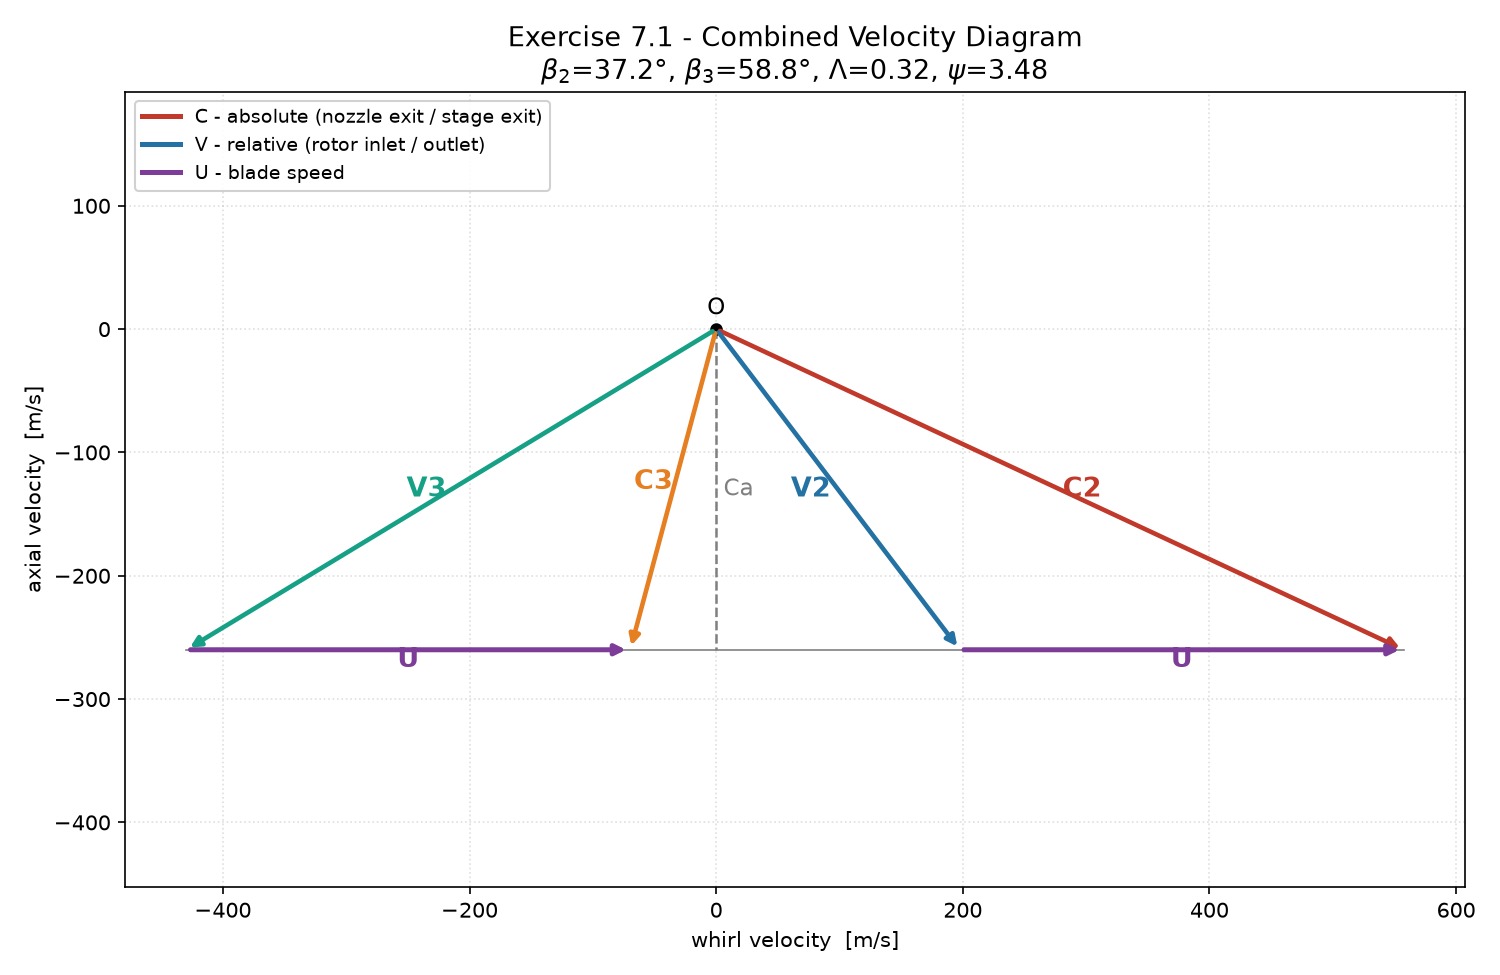
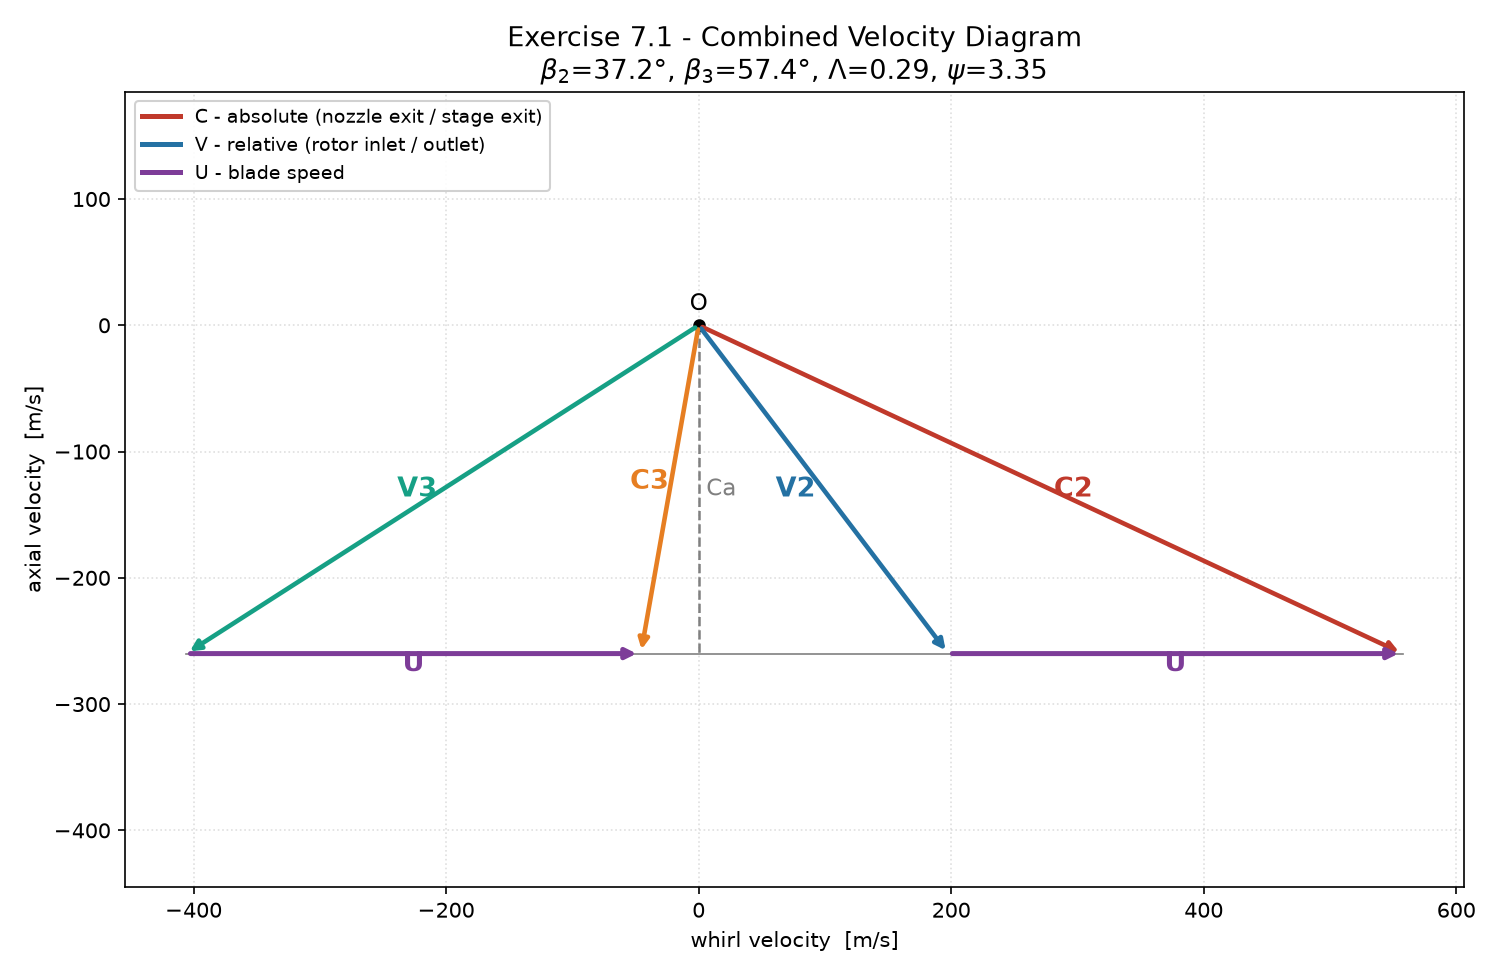
PR calculation

diff --git a/7_1.py b/7_1.py
@@ -27,6 +27,16 @@ alpha3 = radians(10.0)   # stage exit swirl angle         [deg]
 
 cp     = 1148.0          # specific heat, combustion gas  [J/kg.K]
 gamma  = 1.333           # ratio of specific heats        [-]
+R      = 287.0           # gas constant                   [J/kg.K]
+
+# Loss coefficients (temperature-loss definition, e.g. lambda_N = (T2 - T2')/(C2^2/2cp))
+lambda_N = 0.05          # nozzle loss coefficient        [-]
+lambda_R = 0.05          # rotor  loss coefficient        [-]  <-- set to your value
+# Alternatively, if you prefer to impose a stage total-to-total efficiency instead
+# of a rotor loss, set eta_s below to a number (e.g. 0.90); leave as None to use lambda_R.
+eta_s    = None          # stage total-to-total efficiency [-] or None
+
+n = gamma / (gamma - 1.0)   # isentropic exponent p/T grouping
 
 # --------------------------------------------------------------------------
 # 1) ROTOR-BLADE GAS ANGLES
@@ -73,6 +83,73 @@ V3  = Ca / cos(beta3)
 C3  = Ca / cos(alpha3)
 
 # --------------------------------------------------------------------------
+# 5) NOZZLE THROAT AREA  (using the nozzle loss coefficient lambda_N)
+#    T02 = T01 (no work in the nozzle).  The isentropic static temperature
+#    T2' fixes the static pressure through the nozzle loss:
+#        T2  = T02 - C2^2 / (2 cp)
+#        T2' = T2  - lambda_N * C2^2 / (2 cp)
+#        p01 / p2 = (T01 / T2')^(gamma/(gamma-1))
+#
+#    A convergent nozzle chokes when p2 falls to (or below) the critical
+#    pressure p_c.  If choked, the throat sits at critical (M = 1) conditions;
+#    otherwise the throat equals the nozzle-exit conditions.
+# --------------------------------------------------------------------------
+T02 = T01
+T2  = T02 - C2**2 / (2.0 * cp)
+T2p = T2 - lambda_N * C2**2 / (2.0 * cp)      # isentropic static temperature
+p2  = p01 / (T01 / T2p) ** n                  # nozzle-exit static pressure [bar]
+p01_over_p2 = p01 / p2
+
+# Critical (throat, M=1) conditions, including the nozzle loss up to the throat
+Tc   = T01 * 2.0 / (gamma + 1.0)                       # critical static temp
+p01_over_pc = (1.0 - (1.0 + lambda_N) *
+               (gamma - 1.0) / (gamma + 1.0)) ** (-n)  # critical press. ratio
+pc   = p01 / p01_over_pc                               # critical pressure [bar]
+choked = p2 <= pc
+
+if choked:
+    T_th   = Tc
+    p_th   = pc
+    C_th   = (gamma * R * T_th) ** 0.5        # = local sonic speed (M = 1)
+else:
+    T_th   = T2
+    p_th   = p2
+    C_th   = C2
+rho_th   = p_th * 1e5 / (R * T_th)            # throat density [kg/m3]
+A_throat = m_dot / (rho_th * C_th)            # nozzle throat area [m2]
+
+# --------------------------------------------------------------------------
+# 6) TURBINE-STAGE PRESSURE RATIO  p01 / p03  (needs the rotor loss lambda_R,
+#    or, equivalently, a stage total-to-total efficiency eta_s)
+#
+#    If eta_s is given:  p01/p03 = [1 - dT0s/(eta_s*T01)]^(-gamma/(gamma-1))
+#    Otherwise, from lambda_R:
+#        T3   = T03 - C3^2/(2cp)
+#        T3'  = T3  - lambda_R * V3^2/(2cp)      (rotor isentropic static temp)
+#        p2/p3 = (T2/T3')^(gamma/(gamma-1))      -> static pressure p3
+#        p03   = p3 * (T03/T3)^(gamma/(gamma-1))
+# --------------------------------------------------------------------------
+T03 = T01 - dT0s
+
+if eta_s is not None:
+    p01_over_p03 = (1.0 - dT0s / (eta_s * T01)) ** (-n)
+    p03 = p01 / p01_over_p03
+    eta_tt = eta_s
+    # back out static pressures for completeness
+    T3  = T03 - C3**2 / (2.0 * cp)
+    p3  = p03 / (T03 / T3) ** n
+else:
+    T3   = T03 - C3**2 / (2.0 * cp)
+    T3p  = T3 - lambda_R * V3**2 / (2.0 * cp)
+    p3   = p2 / (T2 / T3p) ** n
+    p03  = p3 * (T03 / T3) ** n
+    p01_over_p03 = p01 / p03
+    # resulting total-to-total isentropic efficiency
+    eta_tt = dT0s / (T01 * (1.0 - (p03 / p01) ** (1.0 / n)))
+
+p01_over_p3 = p01 / p3        # stagnation-to-static (rotor-exit) ratio
+
+# --------------------------------------------------------------------------
 # PRETTY-PRINTED RESULTS
 # --------------------------------------------------------------------------
 line = "=" * 60
@@ -108,6 +185,34 @@ print(f"  {'Degree of reaction':38s} Lambda   = {reaction:7.3f}")
 print(f"  {'Temperature-drop coefficient':38s} psi      = {psi:7.3f}")
 print(f"  {'Stage stagnation temperature drop':38s} dT0s     = {dT0s:7.2f}  K")
 print(f"  {'Power output':38s} P        = {power/1e6:7.3f}  MW")
+print(line)
+
+header("NOZZLE THROAT  &  STAGE PRESSURE RATIO")
+print(f"\nNozzle (station 2), lambda_N = {lambda_N:.2f}")
+print("-" * 60)
+print(f"  {'Nozzle exit velocity':34s} C2          = {C2:8.2f}  m/s")
+print(f"  {'Nozzle exit static temperature':34s} T2          = {T2:8.2f}  K")
+print(f"  {'Nozzle exit static pressure':34s} p2          = {p2:8.4f}  bar")
+print(f"  {'Nozzle static pressure ratio':34s} p01/p2      = {p01_over_p2:8.4f}")
+print(f"  {'Critical (throat) pressure':34s} p_c         = {pc:8.4f}  bar")
+print(f"  {'Nozzle flow is':34s}               {'CHOKED (throat at M=1)' if choked else 'un-choked'}")
+print(f"  {'Throat static temperature':34s} T_th        = {T_th:8.2f}  K")
+print(f"  {'Throat velocity':34s} C_th        = {C_th:8.2f}  m/s")
+print(f"  {'Throat density':34s} rho_th      = {rho_th:8.4f}  kg/m3")
+print(f"  {'NOZZLE THROAT AREA':34s} A_throat    = {A_throat:8.5f}  m2")
+
+if eta_s is not None:
+    src = f"eta_s = {eta_s:.3f} (given)"
+else:
+    src = f"lambda_R = {lambda_R:.2f} (given)"
+print(f"\nStage pressure ratio   [{src}]")
+print("-" * 60)
+print(f"  {'Rotor exit static temperature':34s} T3          = {T3:8.2f}  K")
+print(f"  {'Rotor exit static pressure':34s} p3          = {p3:8.4f}  bar")
+print(f"  {'Stage exit stagnation pressure':34s} p03         = {p03:8.4f}  bar")
+print(f"  {'Stage-to-static pressure ratio':34s} p01/p3      = {p01_over_p3:8.4f}")
+print(f"  {'STAGE PRESSURE RATIO (total)':34s} p01/p03     = {p01_over_p03:8.4f}")
+print(f"  {'Stage total-to-total efficiency':34s} eta_tt      = {eta_tt:8.4f}")
 print(line)
 
 
